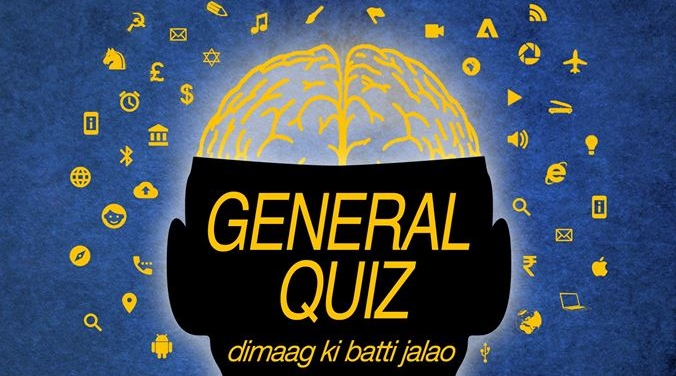
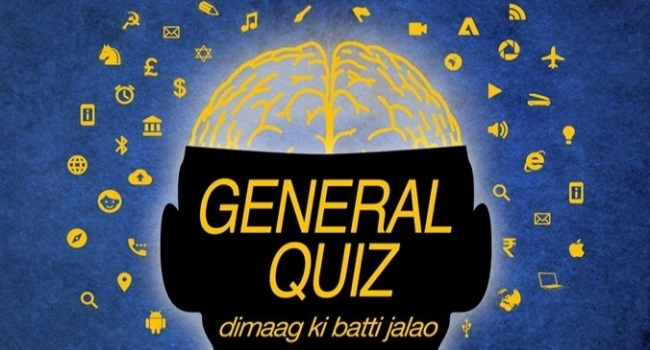
Add General Quiz

diff --git a/js/quizzes_new.js b/js/quizzes_new.js
@@ -359,6 +359,20 @@ $(document).ready(function () {
         ]
     }
 
+    var General = {
+        var_name: "General",
+        quiz_name: "General Quiz",
+        image: "img/Quizzes/General_2017.jpg",
+        caption: "",
+        rounds: [
+            {
+                round_name: "Prelims",
+                link: "https://docs.google.com/presentation/d/e/2PACX-1vSzYbrHLV225a8VH4cL2cuYzWr-dWBI04qpN3cJXjq5X7ScgwRw7VuqMXYoDwH0GSIbk9iRxi_pF5md/pub?start=false&loop=false&delayms=3000"
+            }
+        ]
+    }
+
+    
     
 
     var variable_for_quiz_name = {
@@ -374,7 +388,7 @@ $(document).ready(function () {
         ]
     }
 
-	var quizzes = [India, QFactor, Bollywood, Quanta, Logo, Apotheosis, Entertainment, Sports, Farewell, World, Freshers, Friends, HarryPotter, Vigilance, Sports_2017, Mela, Cricket, Comic, GoT, Auto, Anime];
+	var quizzes = [India, QFactor, Bollywood, Quanta, Logo, Apotheosis, Entertainment, Sports, Farewell, World, Freshers, Friends, HarryPotter, Vigilance, Sports_2017, General, Mela, Cricket, Comic, GoT, Auto, Anime];
 	
     function populate_quizzes() {
         for (var i = 0; i < quizzes.length; i++) {
